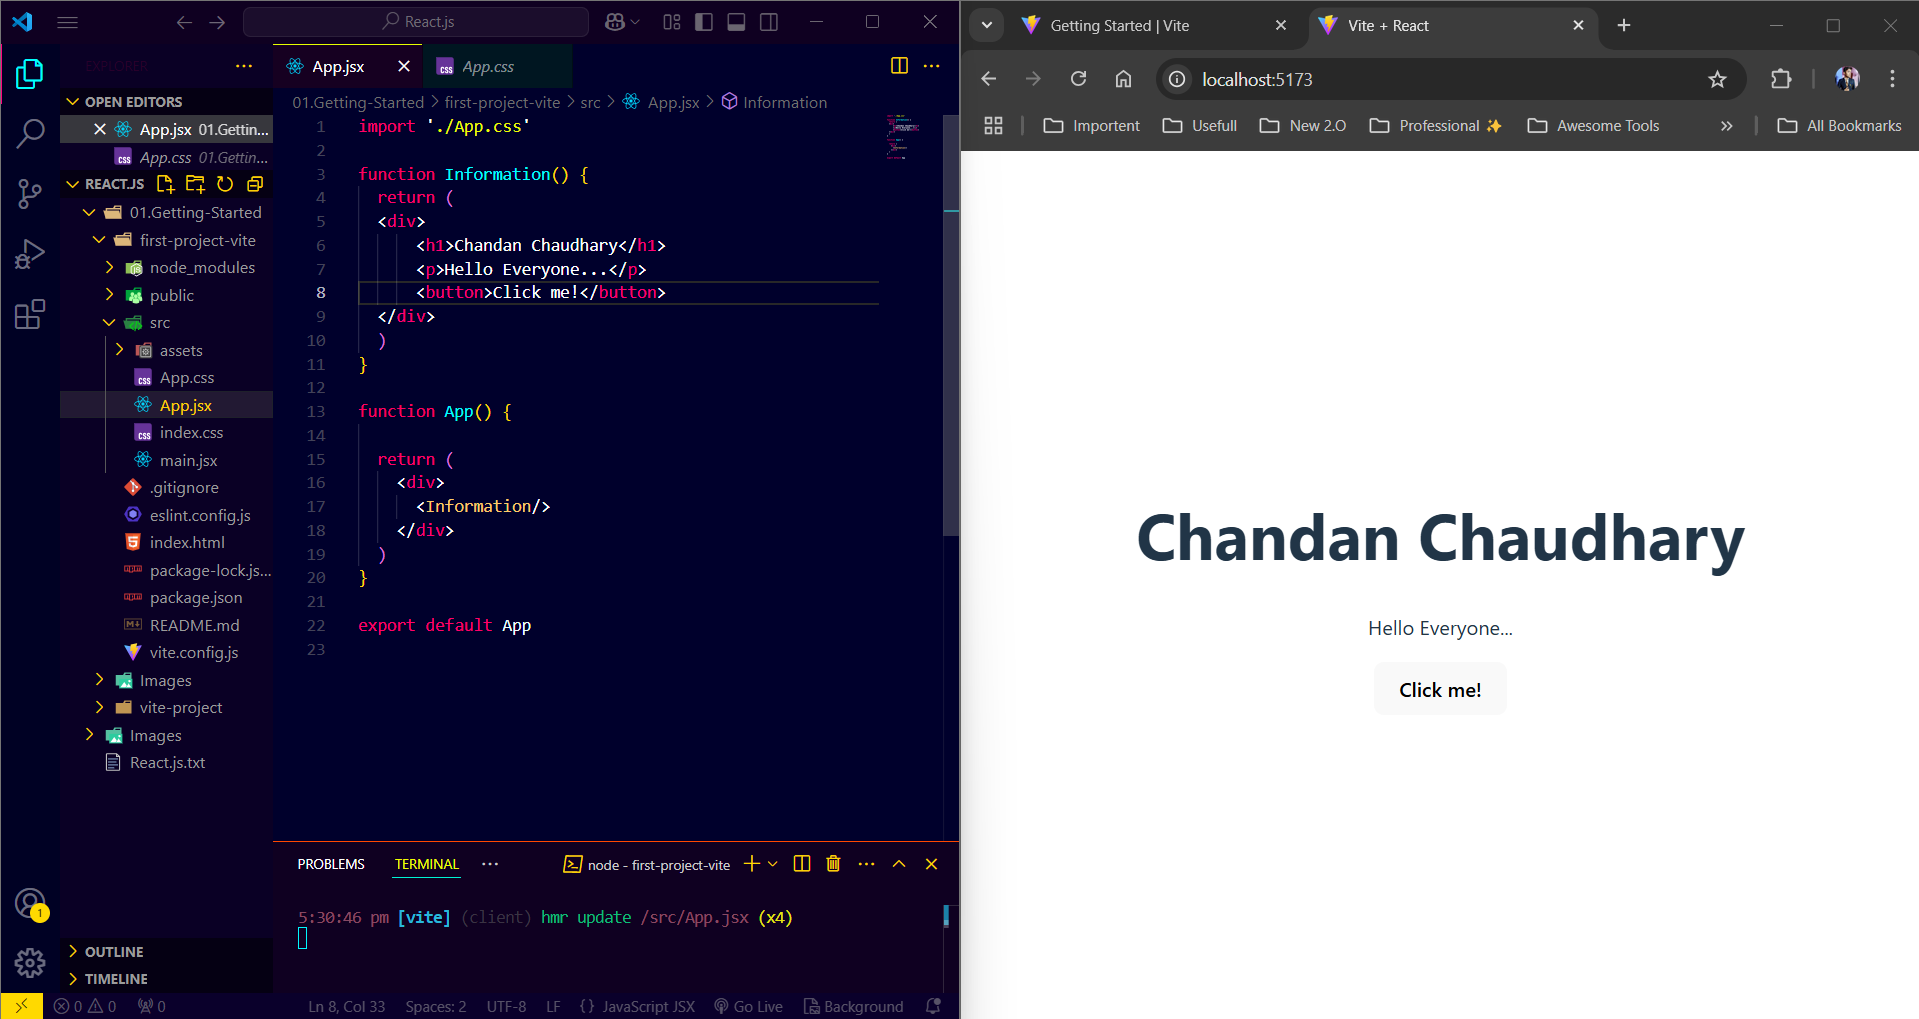
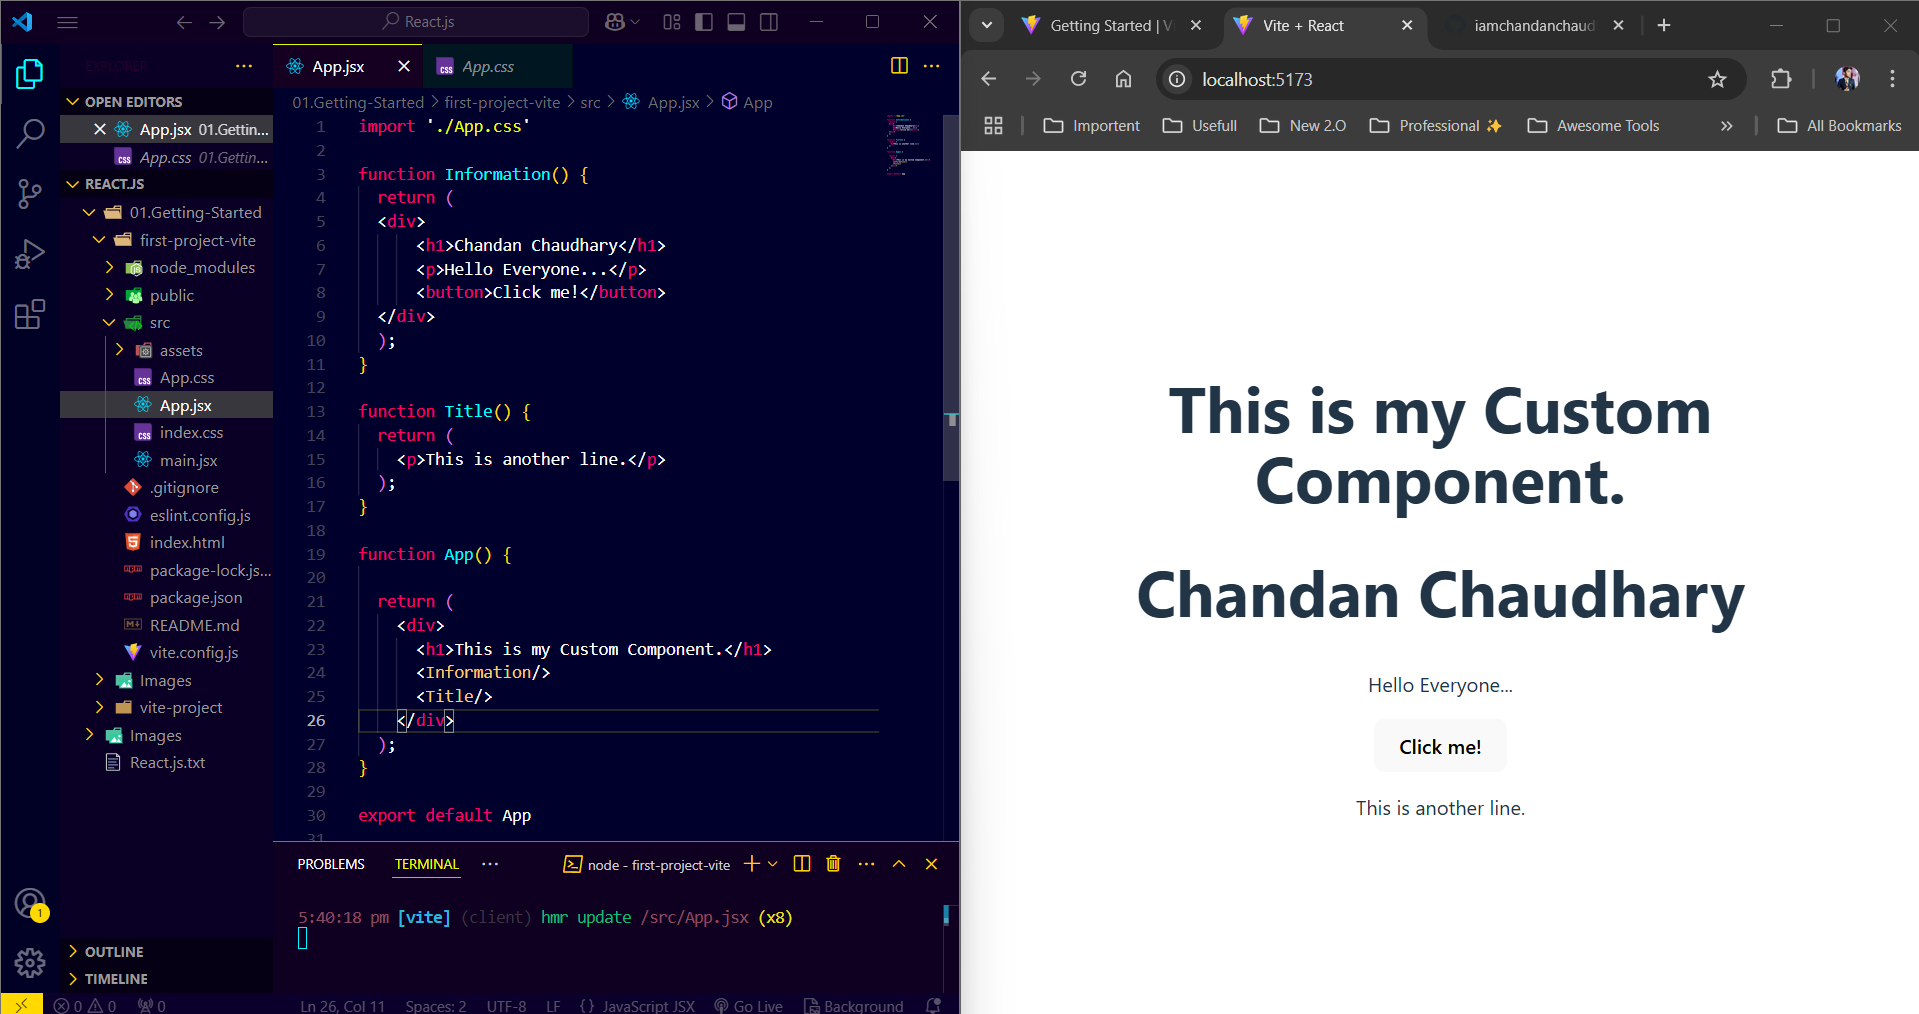
Improvement 17

diff --git a/React.js/01.Getting-Started/first-project-vite/src/App.jsx b/React.js/01.Getting-Started/first-project-vite/src/App.jsx
@@ -7,16 +7,24 @@ function Information() {
       <p>Hello Everyone...</p>
       <button>Click me!</button>
   </div>
-  )
+  );
+}
+
+function Title() {
+  return (
+    <p>This is another line.</p>
+  );
 }
 
 function App() {
 
   return ( 
     <div>
+      <h1>This is my Custom Component.</h1>
       <Information/>
+      <Title/>
     </div>
-  )
+  );
 }
 
 export default App
